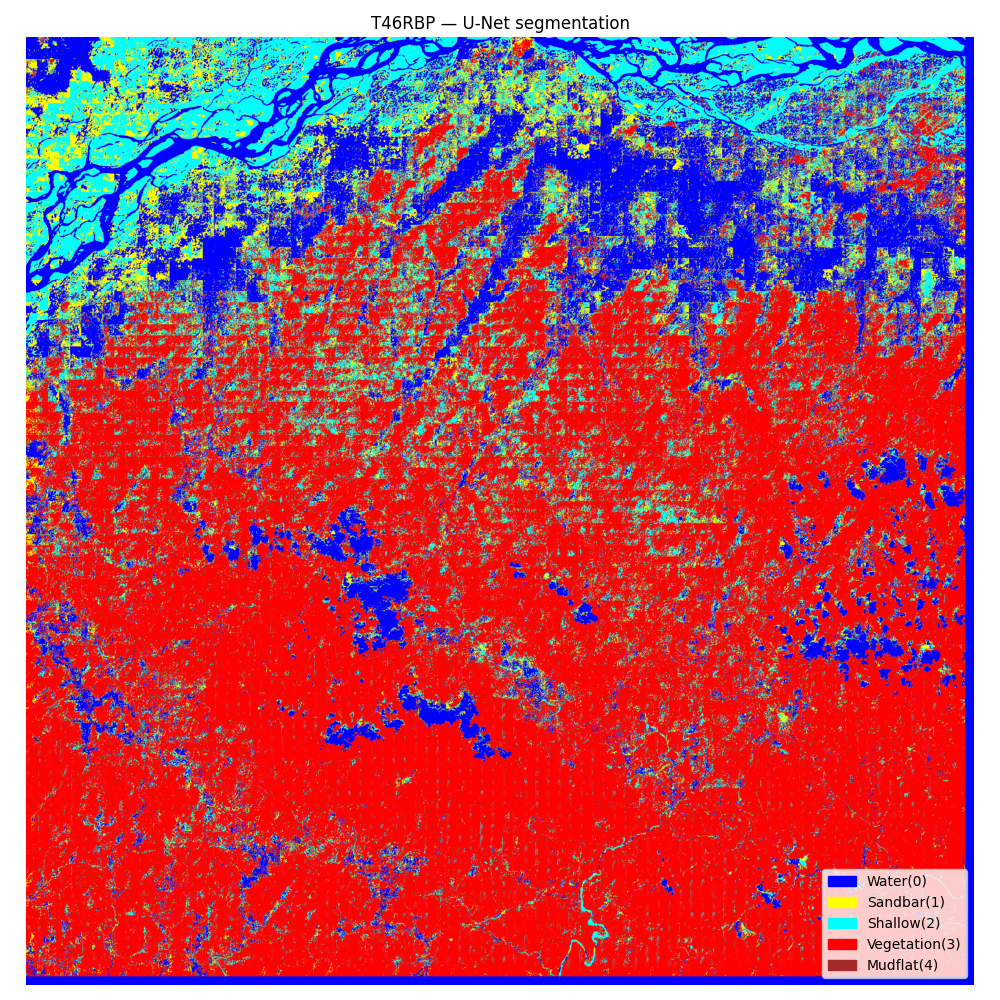
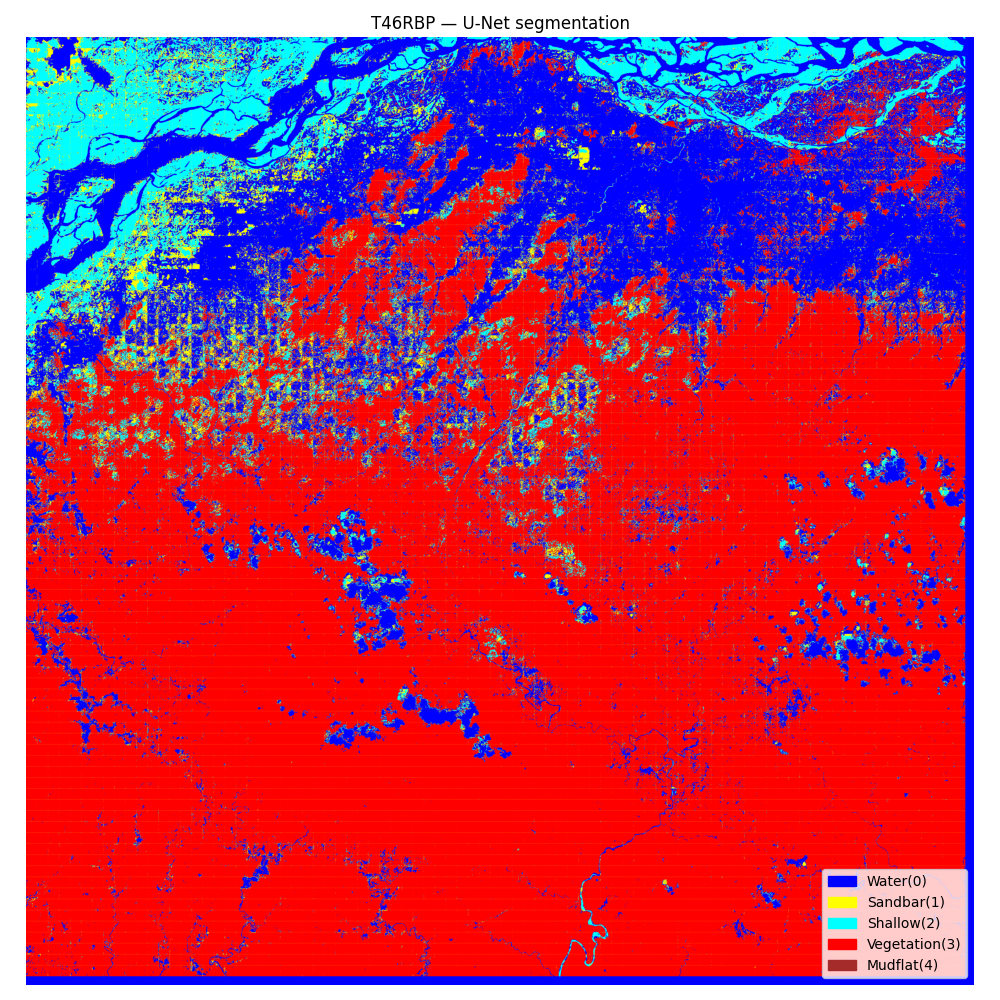
chnages in extract patches script to  ensure geo-locking

diff --git a/outputs/maps/segmentation_style.qml b/outputs/maps/segmentation_style.qml
@@ -1,0 +1,71 @@
+<!DOCTYPE qgis PUBLIC 'http://mrcc.com/qgis.dtd' 'SYSTEM'>
+<qgis hasScaleBasedVisibilityFlag="0" styleCategories="AllStyleCategories" version="3.22.4-Białowieża" maxScale="0" minScale="1e+08">
+  <flags>
+    <Identifiable>1</Identifiable>
+    <Removable>1</Removable>
+    <Searchable>1</Searchable>
+    <Private>0</Private>
+  </flags>
+  <temporal enabled="0" mode="0" fetchMode="0">
+    <fixedRange>
+      <start></start>
+      <end></end>
+    </fixedRange>
+  </temporal>
+  <customproperties>
+    <Option type="Map">
+      <Option value="false" type="bool" name="WMSBackgroundLayer"/>
+      <Option value="false" type="bool" name="WMSPublishDataSourceUrl"/>
+      <Option value="0" type="int" name="embeddedWidgets/count"/>
+      <Option value="Value" type="QString" name="identify/format"/>
+    </Option>
+  </customproperties>
+  <pipe-data-defined-properties>
+    <Option type="Map">
+      <Option value="" type="QString" name="name"/>
+      <Option name="properties"/>
+      <Option value="collection" type="QString" name="type"/>
+    </Option>
+  </pipe-data-defined-properties>
+  <pipe>
+    <provider>
+      <resampling enabled="false" maxOversampling="2" zoomedOutResamplingMethod="nearestNeighbour" zoomedInResamplingMethod="nearestNeighbour"/>
+    </provider>
+    <rasterrenderer alphaBand="-1" opacity="1" band="1" type="paletted" nodataColor="">
+      <rasterTransparency/>
+      <minMaxOrigin>
+        <limits>None</limits>
+        <extent>WholeRaster</extent>
+        <statAccuracy>Estimated</statAccuracy>
+        <cumulativeCutLower>0.02</cumulativeCutLower>
+        <cumulativeCutUpper>0.98</cumulativeCutUpper>
+        <stdDevFactor>2</stdDevFactor>
+      </minMaxOrigin>
+      <colorPalette>
+        <paletteEntry color="#3012f1" value="0" alpha="255" label="0"/>
+        <paletteEntry color="#e5e37d" value="1" alpha="255" label="1"/>
+        <paletteEntry color="#38c1fb" value="2" alpha="255" label="2"/>
+        <paletteEntry color="#fb0606" value="3" alpha="255" label="3"/>
+      </colorPalette>
+      <colorramp type="gradient" name="[source]">
+        <Option type="Map">
+          <Option value="48,18,59,255" type="QString" name="color1"/>
+          <Option value="122,4,3,255" type="QString" name="color2"/>
+          <Option value="0" type="QString" name="discrete"/>
+          <Option value="gradient" type="QString" name="rampType"/>
+          <Option value="0.0039063;50,21,67,255:0.0078125;51,24,74,255:0.0117188;52,27,81,255:0.015625;53,30,88,255:0.0195313;54,33,95,255:0.0234375;55,36,102,255:0.0273438;56,39,109,255:0.03125;57,42,115,255:0.0351563;58,45,121,255:0.0390625;59,47,128,255:0.0429688;60,50,134,255:0.046875;61,53,139,255:0.0507813;62,56,145,255:0.0546875;63,59,151,255:0.0585938;63,62,156,255:0.0625;64,64,162,255:0.0664063;65,67,167,255:0.0703125;65,70,172,255:0.0742188;66,73,177,255:0.078125;66,75,181,255:0.0820313;67,78,186,255:0.0859375;68,81,191,255:0.0898438;68,84,195,255:0.09375;68,86,199,255:0.0976563;69,89,203,255:0.101563;69,92,207,255:0.105469;69,94,211,255:0.109375;70,97,214,255:0.113281;70,100,218,255:0.117188;70,102,221,255:0.121094;70,105,224,255:0.125;70,107,227,255:0.128906;71,110,230,255:0.132813;71,113,233,255:0.136719;71,115,235,255:0.140625;71,118,238,255:0.144531;71,120,240,255:0.148438;71,123,242,255:0.152344;70,125,244,255:0.15625;70,128,246,255:0.160156;70,130,248,255:0.164063;70,133,250,255:0.167969;70,135,251,255:0.171875;69,138,252,255:0.175781;69,140,253,255:0.179688;68,143,254,255:0.183594;67,145,254,255:0.1875;66,148,255,255:0.191406;65,150,255,255:0.195313;64,153,255,255:0.199219;62,155,254,255:0.203125;61,158,254,255:0.207031;59,160,253,255:0.210938;58,163,252,255:0.214844;56,165,251,255:0.21875;55,168,250,255:0.222656;53,171,248,255:0.226563;51,173,247,255:0.230469;49,175,245,255:0.234375;47,178,244,255:0.238281;46,180,242,255:0.242188;44,183,240,255:0.246094;42,185,238,255:0.25;40,188,235,255:0.253906;39,190,233,255:0.257813;37,192,231,255:0.261719;35,195,228,255:0.265625;34,197,226,255:0.269531;32,199,223,255:0.273438;31,201,221,255:0.277344;30,203,218,255:0.28125;28,205,216,255:0.285156;27,208,213,255:0.289063;26,210,210,255:0.292969;26,212,208,255:0.296875;25,213,205,255:0.300781;24,215,202,255:0.304688;24,217,200,255:0.308594;24,219,197,255:0.3125;24,221,194,255:0.316406;24,222,192,255:0.320313;24,224,189,255:0.324219;25,226,187,255:0.328125;25,227,185,255:0.332031;26,228,182,255:0.335938;28,230,180,255:0.339844;29,231,178,255:0.34375;31,233,175,255:0.347656;32,234,172,255:0.351563;34,235,170,255:0.355469;37,236,167,255:0.359375;39,238,164,255:0.363281;42,239,161,255:0.367188;44,240,158,255:0.371094;47,241,155,255:0.375;50,242,152,255:0.378906;53,243,148,255:0.382813;56,244,145,255:0.386719;60,245,142,255:0.390625;63,246,138,255:0.394531;67,247,135,255:0.398438;70,248,132,255:0.402344;74,248,128,255:0.40625;78,249,125,255:0.410156;82,250,122,255:0.414063;85,250,118,255:0.417969;89,251,115,255:0.421875;93,252,111,255:0.425781;97,252,108,255:0.429688;101,253,105,255:0.433594;105,253,102,255:0.4375;109,254,98,255:0.441406;113,254,95,255:0.445313;117,254,92,255:0.449219;121,254,89,255:0.453125;125,255,86,255:0.457031;128,255,83,255:0.460938;132,255,81,255:0.464844;136,255,78,255:0.46875;139,255,75,255:0.472656;143,255,73,255:0.476563;146,255,71,255:0.480469;150,254,68,255:0.484375;153,254,66,255:0.488281;156,254,64,255:0.492188;159,253,63,255:0.496094;161,253,61,255:0.5;164,252,60,255:0.503906;167,252,58,255:0.507813;169,251,57,255:0.511719;172,251,56,255:0.515625;175,250,55,255:0.519531;177,249,54,255:0.523438;180,248,54,255:0.527344;183,247,53,255:0.53125;185,246,53,255:0.535156;188,245,52,255:0.539063;190,244,52,255:0.542969;193,243,52,255:0.546875;195,241,52,255:0.550781;198,240,52,255:0.554688;200,239,52,255:0.558594;203,237,52,255:0.5625;205,236,52,255:0.566406;208,234,52,255:0.570313;210,233,53,255:0.574219;212,231,53,255:0.578125;215,229,53,255:0.582031;217,228,54,255:0.585938;219,226,54,255:0.589844;221,224,55,255:0.59375;223,223,55,255:0.597656;225,221,55,255:0.601563;227,219,56,255:0.605469;229,217,56,255:0.609375;231,215,57,255:0.613281;233,213,57,255:0.617188;235,211,57,255:0.621094;236,209,58,255:0.625;238,207,58,255:0.628906;239,205,58,255:0.632813;241,203,58,255:0.636719;242,201,58,255:0.640625;244,199,58,255:0.644531;245,197,58,255:0.648438;246,195,58,255:0.652344;247,193,58,255:0.65625;248,190,57,255:0.660156;249,188,57,255:0.664063;250,186,57,255:0.667969;251,184,56,255:0.671875;251,182,55,255:0.675781;252,179,54,255:0.679688;252,177,54,255:0.683594;253,174,53,255:0.6875;253,172,52,255:0.691406;254,169,51,255:0.695313;254,167,50,255:0.699219;254,164,49,255:0.703125;254,161,48,255:0.707031;254,158,47,255:0.710938;254,155,45,255:0.714844;254,153,44,255:0.71875;254,150,43,255:0.722656;254,147,42,255:0.726563;254,144,41,255:0.730469;253,141,39,255:0.734375;253,138,38,255:0.738281;252,135,37,255:0.742188;252,132,35,255:0.746094;251,129,34,255:0.75;251,126,33,255:0.753906;250,123,31,255:0.757813;249,120,30,255:0.761719;249,117,29,255:0.765625;248,114,28,255:0.769531;247,111,26,255:0.773438;246,108,25,255:0.777344;245,105,24,255:0.78125;244,102,23,255:0.785156;243,99,21,255:0.789063;242,96,20,255:0.792969;241,93,19,255:0.796875;240,91,18,255:0.800781;239,88,17,255:0.804688;237,85,16,255:0.808594;236,83,15,255:0.8125;235,80,14,255:0.816406;234,78,13,255:0.820313;232,75,12,255:0.824219;231,73,12,255:0.828125;229,71,11,255:0.832031;228,69,10,255:0.835938;226,67,10,255:0.839844;225,65,9,255:0.84375;223,63,8,255:0.847656;221,61,8,255:0.851563;220,59,7,255:0.855469;218,57,7,255:0.859375;216,55,6,255:0.863281;214,53,6,255:0.867188;212,51,5,255:0.871094;210,49,5,255:0.875;208,47,5,255:0.878906;206,45,4,255:0.882813;204,43,4,255:0.886719;202,42,4,255:0.890625;200,40,3,255:0.894531;197,38,3,255:0.898438;195,37,3,255:0.902344;193,35,2,255:0.90625;190,33,2,255:0.910156;188,32,2,255:0.914063;185,30,2,255:0.917969;183,29,2,255:0.921875;180,27,1,255:0.925781;178,26,1,255:0.929688;175,24,1,255:0.933594;172,23,1,255:0.9375;169,22,1,255:0.941406;167,20,1,255:0.945313;164,19,1,255:0.949219;161,18,1,255:0.953125;158,16,1,255:0.957031;155,15,1,255:0.960938;152,14,1,255:0.964844;149,13,1,255:0.96875;146,11,1,255:0.972656;142,10,1,255:0.976563;139,9,2,255:0.980469;136,8,2,255:0.984375;133,7,2,255:0.988281;129,6,2,255" type="QString" name="stops"/>
+        </Option>
+        <prop k="color1" v="48,18,59,255"/>
+        <prop k="color2" v="122,4,3,255"/>
+        <prop k="discrete" v="0"/>
+        <prop k="rampType" v="gradient"/>
+        <prop k="stops" v="0.0039063;50,21,67,255:0.0078125;51,24,74,255:0.0117188;52,27,81,255:0.015625;53,30,88,255:0.0195313;54,33,95,255:0.0234375;55,36,102,255:0.0273438;56,39,109,255:0.03125;57,42,115,255:0.0351563;58,45,121,255:0.0390625;59,47,128,255:0.0429688;60,50,134,255:0.046875;61,53,139,255:0.0507813;62,56,145,255:0.0546875;63,59,151,255:0.0585938;63,62,156,255:0.0625;64,64,162,255:0.0664063;65,67,167,255:0.0703125;65,70,172,255:0.0742188;66,73,177,255:0.078125;66,75,181,255:0.0820313;67,78,186,255:0.0859375;68,81,191,255:0.0898438;68,84,195,255:0.09375;68,86,199,255:0.0976563;69,89,203,255:0.101563;69,92,207,255:0.105469;69,94,211,255:0.109375;70,97,214,255:0.113281;70,100,218,255:0.117188;70,102,221,255:0.121094;70,105,224,255:0.125;70,107,227,255:0.128906;71,110,230,255:0.132813;71,113,233,255:0.136719;71,115,235,255:0.140625;71,118,238,255:0.144531;71,120,240,255:0.148438;71,123,242,255:0.152344;70,125,244,255:0.15625;70,128,246,255:0.160156;70,130,248,255:0.164063;70,133,250,255:0.167969;70,135,251,255:0.171875;69,138,252,255:0.175781;69,140,253,255:0.179688;68,143,254,255:0.183594;67,145,254,255:0.1875;66,148,255,255:0.191406;65,150,255,255:0.195313;64,153,255,255:0.199219;62,155,254,255:0.203125;61,158,254,255:0.207031;59,160,253,255:0.210938;58,163,252,255:0.214844;56,165,251,255:0.21875;55,168,250,255:0.222656;53,171,248,255:0.226563;51,173,247,255:0.230469;49,175,245,255:0.234375;47,178,244,255:0.238281;46,180,242,255:0.242188;44,183,240,255:0.246094;42,185,238,255:0.25;40,188,235,255:0.253906;39,190,233,255:0.257813;37,192,231,255:0.261719;35,195,228,255:0.265625;34,197,226,255:0.269531;32,199,223,255:0.273438;31,201,221,255:0.277344;30,203,218,255:0.28125;28,205,216,255:0.285156;27,208,213,255:0.289063;26,210,210,255:0.292969;26,212,208,255:0.296875;25,213,205,255:0.300781;24,215,202,255:0.304688;24,217,200,255:0.308594;24,219,197,255:0.3125;24,221,194,255:0.316406;24,222,192,255:0.320313;24,224,189,255:0.324219;25,226,187,255:0.328125;25,227,185,255:0.332031;26,228,182,255:0.335938;28,230,180,255:0.339844;29,231,178,255:0.34375;31,233,175,255:0.347656;32,234,172,255:0.351563;34,235,170,255:0.355469;37,236,167,255:0.359375;39,238,164,255:0.363281;42,239,161,255:0.367188;44,240,158,255:0.371094;47,241,155,255:0.375;50,242,152,255:0.378906;53,243,148,255:0.382813;56,244,145,255:0.386719;60,245,142,255:0.390625;63,246,138,255:0.394531;67,247,135,255:0.398438;70,248,132,255:0.402344;74,248,128,255:0.40625;78,249,125,255:0.410156;82,250,122,255:0.414063;85,250,118,255:0.417969;89,251,115,255:0.421875;93,252,111,255:0.425781;97,252,108,255:0.429688;101,253,105,255:0.433594;105,253,102,255:0.4375;109,254,98,255:0.441406;113,254,95,255:0.445313;117,254,92,255:0.449219;121,254,89,255:0.453125;125,255,86,255:0.457031;128,255,83,255:0.460938;132,255,81,255:0.464844;136,255,78,255:0.46875;139,255,75,255:0.472656;143,255,73,255:0.476563;146,255,71,255:0.480469;150,254,68,255:0.484375;153,254,66,255:0.488281;156,254,64,255:0.492188;159,253,63,255:0.496094;161,253,61,255:0.5;164,252,60,255:0.503906;167,252,58,255:0.507813;169,251,57,255:0.511719;172,251,56,255:0.515625;175,250,55,255:0.519531;177,249,54,255:0.523438;180,248,54,255:0.527344;183,247,53,255:0.53125;185,246,53,255:0.535156;188,245,52,255:0.539063;190,244,52,255:0.542969;193,243,52,255:0.546875;195,241,52,255:0.550781;198,240,52,255:0.554688;200,239,52,255:0.558594;203,237,52,255:0.5625;205,236,52,255:0.566406;208,234,52,255:0.570313;210,233,53,255:0.574219;212,231,53,255:0.578125;215,229,53,255:0.582031;217,228,54,255:0.585938;219,226,54,255:0.589844;221,224,55,255:0.59375;223,223,55,255:0.597656;225,221,55,255:0.601563;227,219,56,255:0.605469;229,217,56,255:0.609375;231,215,57,255:0.613281;233,213,57,255:0.617188;235,211,57,255:0.621094;236,209,58,255:0.625;238,207,58,255:0.628906;239,205,58,255:0.632813;241,203,58,255:0.636719;242,201,58,255:0.640625;244,199,58,255:0.644531;245,197,58,255:0.648438;246,195,58,255:0.652344;247,193,58,255:0.65625;248,190,57,255:0.660156;249,188,57,255:0.664063;250,186,57,255:0.667969;251,184,56,255:0.671875;251,182,55,255:0.675781;252,179,54,255:0.679688;252,177,54,255:0.683594;253,174,53,255:0.6875;253,172,52,255:0.691406;254,169,51,255:0.695313;254,167,50,255:0.699219;254,164,49,255:0.703125;254,161,48,255:0.707031;254,158,47,255:0.710938;254,155,45,255:0.714844;254,153,44,255:0.71875;254,150,43,255:0.722656;254,147,42,255:0.726563;254,144,41,255:0.730469;253,141,39,255:0.734375;253,138,38,255:0.738281;252,135,37,255:0.742188;252,132,35,255:0.746094;251,129,34,255:0.75;251,126,33,255:0.753906;250,123,31,255:0.757813;249,120,30,255:0.761719;249,117,29,255:0.765625;248,114,28,255:0.769531;247,111,26,255:0.773438;246,108,25,255:0.777344;245,105,24,255:0.78125;244,102,23,255:0.785156;243,99,21,255:0.789063;242,96,20,255:0.792969;241,93,19,255:0.796875;240,91,18,255:0.800781;239,88,17,255:0.804688;237,85,16,255:0.808594;236,83,15,255:0.8125;235,80,14,255:0.816406;234,78,13,255:0.820313;232,75,12,255:0.824219;231,73,12,255:0.828125;229,71,11,255:0.832031;228,69,10,255:0.835938;226,67,10,255:0.839844;225,65,9,255:0.84375;223,63,8,255:0.847656;221,61,8,255:0.851563;220,59,7,255:0.855469;218,57,7,255:0.859375;216,55,6,255:0.863281;214,53,6,255:0.867188;212,51,5,255:0.871094;210,49,5,255:0.875;208,47,5,255:0.878906;206,45,4,255:0.882813;204,43,4,255:0.886719;202,42,4,255:0.890625;200,40,3,255:0.894531;197,38,3,255:0.898438;195,37,3,255:0.902344;193,35,2,255:0.90625;190,33,2,255:0.910156;188,32,2,255:0.914063;185,30,2,255:0.917969;183,29,2,255:0.921875;180,27,1,255:0.925781;178,26,1,255:0.929688;175,24,1,255:0.933594;172,23,1,255:0.9375;169,22,1,255:0.941406;167,20,1,255:0.945313;164,19,1,255:0.949219;161,18,1,255:0.953125;158,16,1,255:0.957031;155,15,1,255:0.960938;152,14,1,255:0.964844;149,13,1,255:0.96875;146,11,1,255:0.972656;142,10,1,255:0.976563;139,9,2,255:0.980469;136,8,2,255:0.984375;133,7,2,255:0.988281;129,6,2,255"/>
+      </colorramp>
+    </rasterrenderer>
+    <brightnesscontrast brightness="0" contrast="0" gamma="1"/>
+    <huesaturation colorizeStrength="100" saturation="0" grayscaleMode="0" colorizeGreen="128" invertColors="0" colorizeBlue="128" colorizeRed="255" colorizeOn="0"/>
+    <rasterresampler maxOversampling="2"/>
+    <resamplingStage>resamplingFilter</resamplingStage>
+  </pipe>
+  <blendMode>0</blendMode>
+</qgis>

diff --git a/notebooks/train_unet.py b/notebooks/train_unet.py
@@ -7,6 +7,7 @@ import rasterio
 from torch.utils.data import Dataset, DataLoader
 import segmentation_models_pytorch as smp
 from sklearn.model_selection import train_test_split
+import random
 
 PATCHES_DIR = '/mnt/nw2data/nw2_project/data/processed/patches'
 MODEL_DIR = '/mnt/nw2data/nw2_project/models'
@@ -15,37 +16,64 @@ os.makedirs(MODEL_DIR, exist_ok=True)
 # Hyperparameters
 NUM_CLASSES = 5
 BATCH_SIZE = 4
-EPOCHS = 30
+EPOCHS = 50
 LR = 1e-4
 DEVICE = 'cuda' if torch.cuda.is_available() else 'cpu'
 print(f'Using device: {DEVICE}')
 
 class BrahmaputraDataset(Dataset):
-    def __init__(self, patch_paths):
+    def __init__(self, patch_paths, augment=False):
         self.patch_paths = patch_paths
+        self.augment = augment
 
     def __len__(self):
         return len(self.patch_paths)
+
+    def augment_data(self, image, label):
+        # Random horizontal flip
+        if random.random() > 0.5:
+            image = np.flip(image, axis=2).copy()
+            label = np.flip(label, axis=1).copy()
+
+        # Random vertical flip
+        if random.random() > 0.5:
+            image = np.flip(image, axis=1).copy()
+            label = np.flip(label, axis=0).copy()
+
+        # Random 90 degree rotation
+        k = random.randint(0, 3)
+        image = np.rot90(image, k, axes=(1, 2)).copy()
+        label = np.rot90(label, k, axes=(0, 1)).copy()
+
+        # Random brightness adjustment
+        if random.random() > 0.5:
+            factor = random.uniform(0.8, 1.2)
+            image = np.clip(image * factor, 0, 1)
+
+        # Random channel noise
+        if random.random() > 0.5:
+            noise = np.random.normal(0, 0.01, image.shape).astype(np.float32)
+            image = np.clip(image + noise, 0, 1)
+
+        return image, label
 
     def __getitem__(self, idx):
         patch_path = self.patch_paths[idx]
         label_path = patch_path.replace('/images/', '/labels/').replace('.tif', '_label.tif')
 
-        # Load image
         with rasterio.open(patch_path) as src:
-            image = src.read().astype(np.float32)  # (4, 256, 256)
+            image = src.read().astype(np.float32)
 
-        # Load label
         with rasterio.open(label_path) as src:
-            label = src.read(1).astype(np.int64)  # (256, 256)
+            label = src.read(1).astype(np.int64)
 
-        # Handle nodata
         label[label == 255] = 0
-
-        # Normalize image to 0-1
         image = np.clip(image, 0, 1)
 
-        return torch.tensor(image), torch.tensor(label)
+        if self.augment:
+            image, label = self.augment_data(image, label)
+
+        return torch.tensor(image.copy()), torch.tensor(label.copy())
 
 # Get all patches that have labels
 all_patches = sorted(glob.glob(f'{PATCHES_DIR}/images/*.tif'))
@@ -59,8 +87,8 @@ print(f'Found {len(all_patches)} labelled patches')
 train_patches, val_patches = train_test_split(all_patches, test_size=0.2, random_state=42)
 print(f'Train: {len(train_patches)} | Val: {len(val_patches)}')
 
-train_dataset = BrahmaputraDataset(train_patches)
-val_dataset = BrahmaputraDataset(val_patches)
+train_dataset = BrahmaputraDataset(train_patches, augment=True)
+val_dataset   = BrahmaputraDataset(val_patches,   augment=False)
 
 train_loader = DataLoader(train_dataset, batch_size=BATCH_SIZE, shuffle=True, num_workers=2)
 val_loader = DataLoader(val_dataset, batch_size=BATCH_SIZE, shuffle=False, num_workers=2)
@@ -74,7 +102,8 @@ model = smp.Unet(
 ).to(DEVICE)
 
 # Loss and optimizer
-criterion = nn.CrossEntropyLoss(ignore_index=255)
+class_weights = torch.tensor([1.0, 2.0, 1.0, 1.0, 3.0]).to(DEVICE)
+criterion = nn.CrossEntropyLoss(weight=class_weights, ignore_index=255)
 optimizer = torch.optim.Adam(model.parameters(), lr=LR)
 scheduler = torch.optim.lr_scheduler.ReduceLROnPlateau(optimizer, patience=5, factor=0.5)
 

diff --git a/notebooks/extract_patches.py b/notebooks/extract_patches.py
@@ -90,6 +90,11 @@ def extract_patches_from_tile(tile_dir, tile_name, n_patches=PATCHES_PER_TILE):
         if (patch == 0).sum() / patch.size > 0.3:
             continue
 
+        # ---> THE GEOSPATIAL FIX <---
+        # Define the window and calculate the new spatial transform
+        window = Window(x, y, PATCH_SIZE, PATCH_SIZE)
+        new_transform = rasterio.windows.transform(window, profile['transform'])
+
         # Save patch
         patch_name = f"{tile_name}_y{y}_x{x}.tif"
         patch_path = os.path.join(PATCHES_DIR, "images", patch_name)
@@ -101,7 +106,8 @@ def extract_patches_from_tile(tile_dir, tile_name, n_patches=PATCHES_PER_TILE):
             'width': PATCH_SIZE,
             'dtype': 'float32',
             'driver': 'GTiff',
-            'compress': 'lzw'
+            'compress': 'lzw',
+            'transform': new_transform  # Inject the corrected coordinates here
         })
 
         with rasterio.open(patch_path, 'w', **patch_profile) as dst: